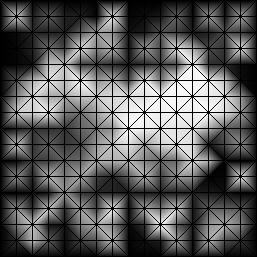
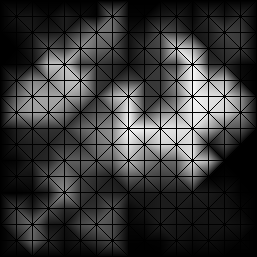
Fixing Subpeak min

diff --git a/src/main/java/com/tgelder/downhill/edgesplitters/SubpeakEdgeSplitter.java b/src/main/java/com/tgelder/downhill/edgesplitters/SubpeakEdgeSplitter.java
@@ -39,7 +39,7 @@ public class SubpeakEdgeSplitter implements EdgeSplitter {
     switch(edge.getEdgeCase()) {
       case BACKSLASH:
       case FORWARDSLASH:
-        max = Mesh.MAX_VALUE;
+        min = Math.min(min, Math.min(c.getZ(), d.getZ()));
         break;
       default:
         break;
